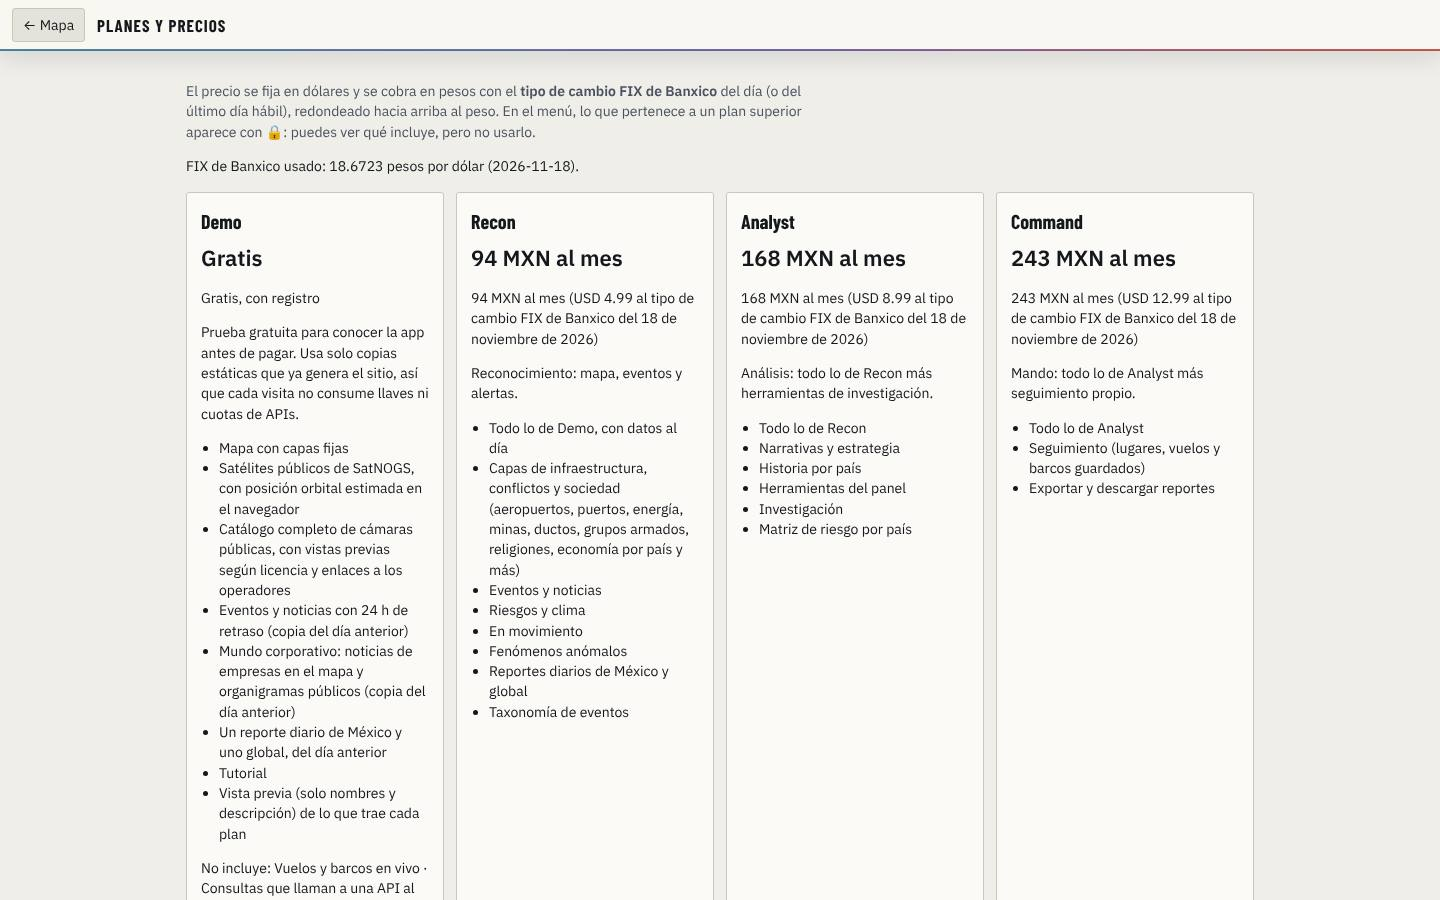
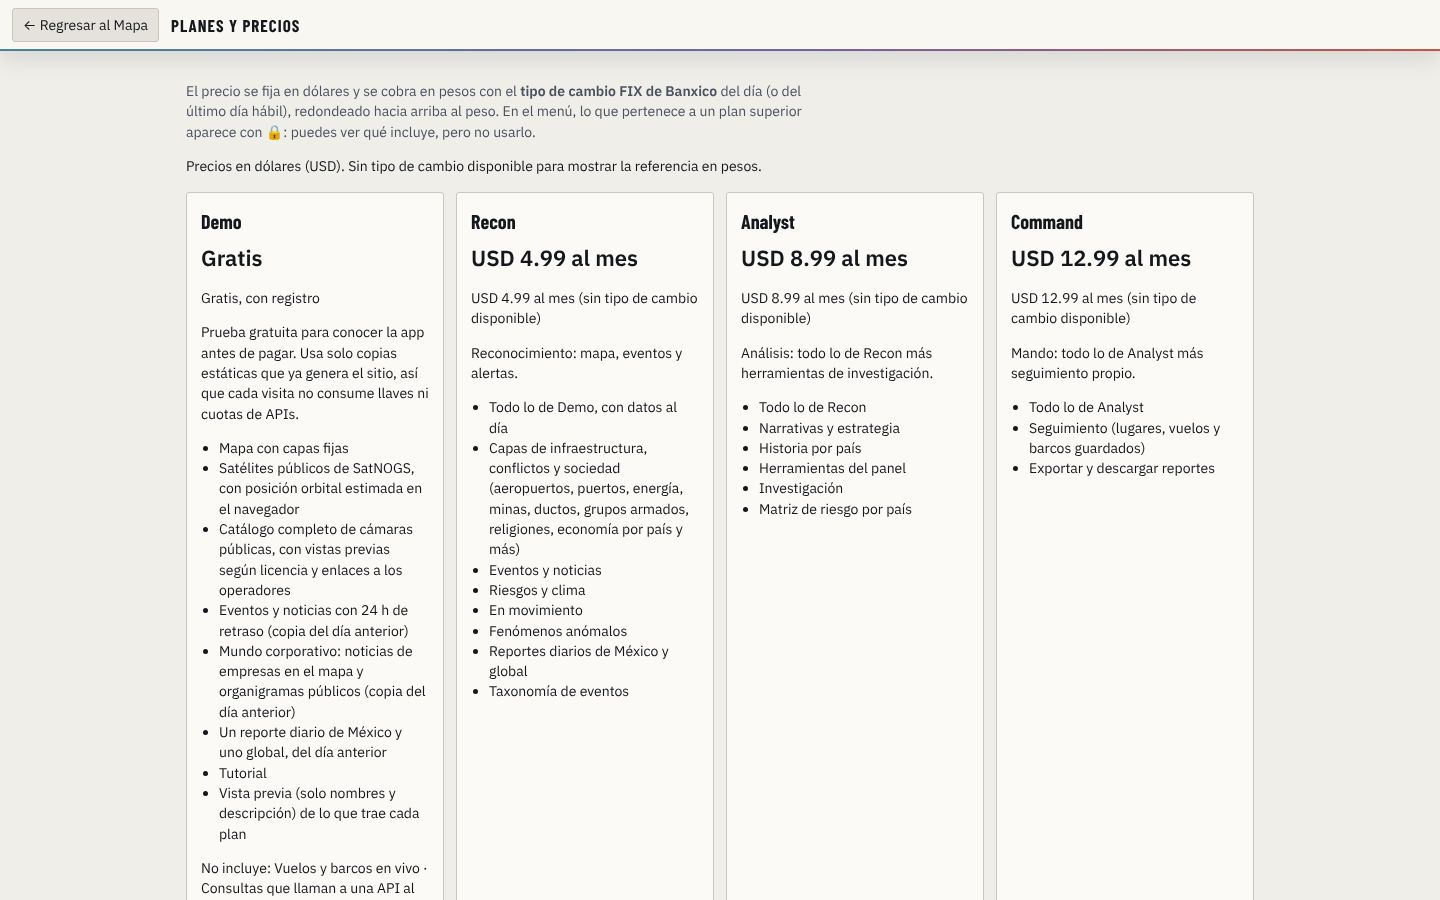
Precios siempre en USD (planes, mapa, demostración, PDF y PowerPoint) (#281)
* Normativa: notas de la bitácora (UE bebidas espirituosas y dos expropiaciones en México)

- EUR:32019R0787R(10): corrección de errores sin obligaciones nuevas (no aplica).
- MEX:dof:5801839 y 5801837: expropiaciones de un predio; actos particulares (no aplica).

Claude-Session: https://claude.ai/code/session_017DQSmustRzzMDQpRDSMJwz

* Mapa: ninguna línea cruza el mundo en la línea de cambio de fecha; capas de polvo del Sahara

- js/antimeridiano.js: corta las líneas en ±180° y desenvuelve los polígonos; se aplica en preparar() de todas las
  capas de riesgos y en addSource/setData de toda fuente GeoJSON de MapLibre (mapa principal y analítica).
  Causa: el pronóstico del ciclón Pena saltaba de 177.5° a -176.5° y se dibujaba una raya ámbar de lado a lado.
- Imágenes satelitales: polvo GOES-East (Dust RGB, cada 10 min) y puntaje diario de polvo AIRS.
- Pruebas: tests/js/antimeridiano.test.mjs. sw.js v183.

Claude-Session: https://claude.ai/code/session_017DQSmustRzzMDQpRDSMJwz

* Reportes: el corte de 30 días se cuenta desde la hora de la corrida (la prueba fallaba al pasar el 9 de noviembre)

Claude-Session: https://claude.ai/code/session_017DQSmustRzzMDQpRDSMJwz

* Normativa: notas de la bitácora (FinCEN contra MEXC Global y reglamento de ejecución de la Ley de IA de la UE)

Claude-Session: https://claude.ai/code/session_017DQSmustRzzMDQpRDSMJwz

* Conducta y escritura: pestaña de peritaje en grafoscopía; arreglo del umbral de tinta en escaneos limpios
[…]

diff --git a/js/demo.js b/js/demo.js
@@ -4,6 +4,10 @@ export const esc = (s) => String(s ?? "").replace(/&/g, "&amp;").replace(/</g, "
 const $ = (id) => document.getElementById(id);
 const PPTX = "https://cdn.jsdelivr.net/npm/pptxgenjs@3.12.0/dist/pptxgen.bundle.js";
 
+/** Precios de los planes, siempre en dólares (regla del proyecto: también en el PDF y el PowerPoint). */
+export const precioUsd = (usd) => (Number(usd) === 0 ? "Gratis" : `USD ${Number(usd).toFixed(2)} al mes`);
+export const preciosPlanes = (cat) => (cat?.planes || []).map((p) => `${p.nombre}: ${precioUsd(p.usd)}`);
+
 /** HTML de un módulo: captura (ampliable), qué hace, para quién y ejemplo resuelto. */
 export function htmlModulo(m) {
   return `<article class="modulo" id="m-${esc(m.id)}">
@@ -11,6 +15,7 @@ export function htmlModulo(m) {
     <div><h3>${esc(m.titulo)}</h3>
       <span class="etq">Qué hace</span><p>${esc(m.que_hace)}</p>
       <span class="etq">Para quién</span><p>${esc(m.para_quien)}</p>
+      ${(m.precios || []).length ? `<span class="etq">Precios (USD)</span><ul>${m.precios.map((t) => `<li>${esc(t)}</li>`).join("")}</ul>` : ""}
       <span class="etq">Ejemplo resuelto</span><ol>${(m.ejemplo || []).map((p) => `<li>${esc(p)}</li>`).join("")}</ol>
       ${m.pagina ? `<p><a href="${esc(m.pagina)}">Abrir el módulo →</a></p>` : ""}</div>
   </article>`;
@@ -50,6 +55,8 @@ async function exportarPptx(d) {
         sl.addText([
           { text: "QUÉ HACE\n", options: { color: ACENTO, bold: true, fontSize: 12 } }, { text: m.que_hace + "\n\n", options: { color: TEXTO, fontSize: 12 } },
           { text: "PARA QUIÉN\n", options: { color: ACENTO, bold: true, fontSize: 12 } }, { text: m.para_quien + "\n\n", options: { color: TEXTO, fontSize: 12 } },
+          ...((m.precios || []).length ? [{ text: "PRECIOS (USD)\n", options: { color: ACENTO, bold: true, fontSize: 12 } },
+            { text: m.precios.join("\n") + "\n\n", options: { color: TEXTO, fontSize: 12 } }] : []),
           { text: "EJEMPLO\n", options: { color: ACENTO, bold: true, fontSize: 12 } },
           ...m.ejemplo.map((t, i) => ({ text: `${i + 1}. ${t}\n`, options: { color: TEXTO, fontSize: 11 } })),
         ], { x: 7.8, y: 1.0, w: 5.1, h: 6.1, valign: "top" });
@@ -78,6 +85,9 @@ function iniciarVisor() {
 
 async function iniciar() {
   const d = await (await fetch("config/demo.json", { cache: "no-cache" })).json();
+  // Precios desde la fuente única (config/planes.json), en dólares.
+  const cat = await fetch("config/planes.json", { cache: "no-cache" }).then((r) => r.json()).catch(() => null);
+  for (const c of d.capitulos) for (const m of c.modulos) if (m.id === "planes" && cat) m.precios = preciosPlanes(cat);
   $("d-titulo").textContent = d.titulo;
   $("d-subtitulo").textContent = d.subtitulo;
   $("d-problema").innerHTML = d.problema.map((t) => `<li>${esc(t)}</li>`).join("");

diff --git a/js/planes.js b/js/planes.js
@@ -41,19 +41,19 @@ export function fechaLarga(iso) {
   return `${d} de ${MESES[m - 1]} de ${a}`;
 }
 
-/** Texto del precio: «93 MXN al mes (USD 4.99 al tipo de cambio FIX de Banxico del 28 de octubre de 2026)». */
-export function textoPrecio(plan, fix, plantilla = "{mxn} MXN al mes (USD {usd} al tipo de cambio FIX de Banxico del {fecha})") {
+/** Texto del precio, siempre en dólares: «USD 4.99 al mes (se cobra en pesos: 92 MXN al tipo de cambio FIX de Banxico del 28 de octubre de 2026)». */
+export const PLANTILLA_PRECIO = "USD {usd} al mes (se cobra en pesos: {mxn} MXN al tipo de cambio FIX de Banxico del {fecha})";
+export function textoPrecio(plan, fix, plantilla = PLANTILLA_PRECIO) {
   if (plan.usd === 0) return "Gratis, con registro";
   const mxn = fix ? precioMxn(plan.usd, fix.valor) : null;
   if (mxn == null) return `USD ${plan.usd.toFixed(2)} al mes (sin tipo de cambio disponible)`;
   return plantilla.replace("{mxn}", mxn.toLocaleString("es-MX")).replace("{usd}", plan.usd.toFixed(2)).replace("{fecha}", fechaLarga(fix.fecha));
 }
 
-/** Precio corto para etiquetas: «Gratis», «92 MXN al mes» o, sin tipo de cambio, «USD 4.99 al mes». */
+/** Precio corto para etiquetas, siempre en dólares: «Gratis» o «USD 4.99 al mes». `fix` se acepta por compatibilidad. */
+// eslint-disable-next-line no-unused-vars
 export function precioCorto(plan, fix) {
-  if (plan.usd === 0) return "Gratis";
-  const mxn = fix ? precioMxn(plan.usd, fix.valor) : null;
-  return mxn == null ? `USD ${plan.usd.toFixed(2)} al mes` : `${mxn.toLocaleString("es-MX")} MXN al mes`;
+  return plan.usd === 0 ? "Gratis" : `USD ${Number(plan.usd).toFixed(2)} al mes`;
 }
 
 /** Precios de todos los planes con el FIX vigente. */

diff --git a/planes.html b/planes.html
@@ -48,7 +48,7 @@
     const cat = await getJSON("config/planes.json");
     const fix = fixDeIndicadores(await getJSON("data/vivos/indicadores.json", { bust: true }).catch(() => null));
     const actual = new URLSearchParams(location.search).get("plan") ? planActual(cat) : "";
-    document.getElementById("pl-fix").textContent = fix ? `FIX de Banxico usado: ${fix.valor} pesos por dólar (${fix.fecha}).` : "Sin tipo de cambio disponible: se muestran los precios en dólares.";
+    document.getElementById("pl-fix").textContent = fix ? `Precios en dólares (USD). El cobro se hace en pesos con el FIX de Banxico: ${fix.valor} pesos por dólar (${fix.fecha}).` : "Precios en dólares (USD). Sin tipo de cambio disponible para mostrar la referencia en pesos.";
     document.getElementById("pl-tarjetas").innerHTML = cat.planes.map((p) => `
       <section class="pl-plan${p.id === actual ? " actual" : ""}" id="${esc(p.id)}">
         <h2>${esc(p.nombre)}${p.id === actual ? ` <span class="chip vista-pago">tu plan</span>` : ""}</h2>
